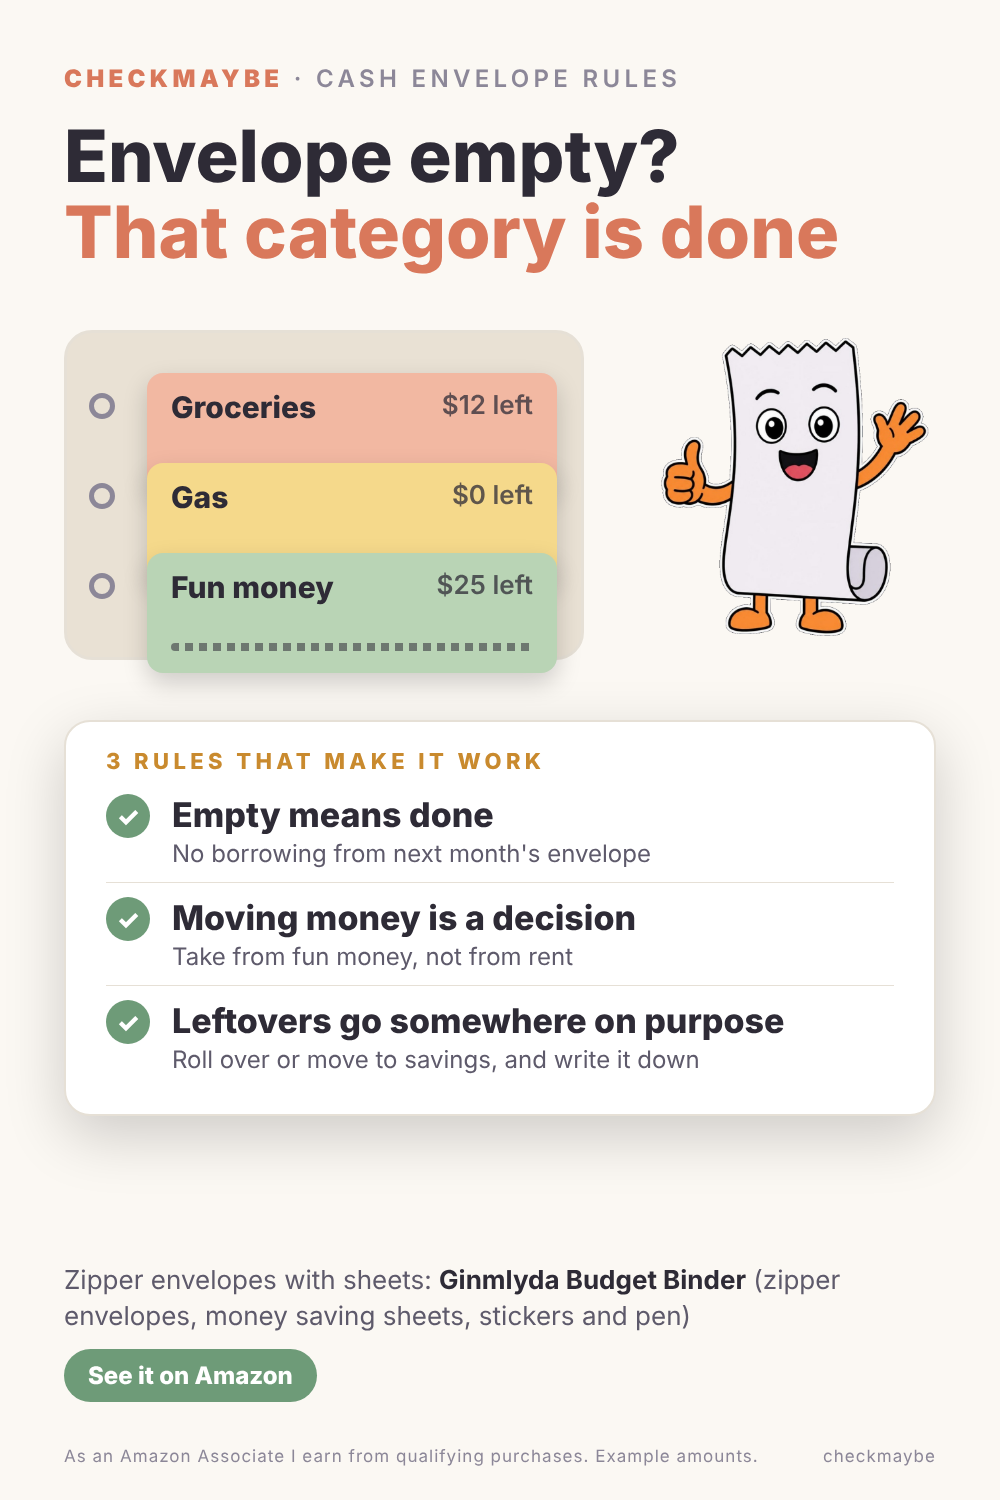
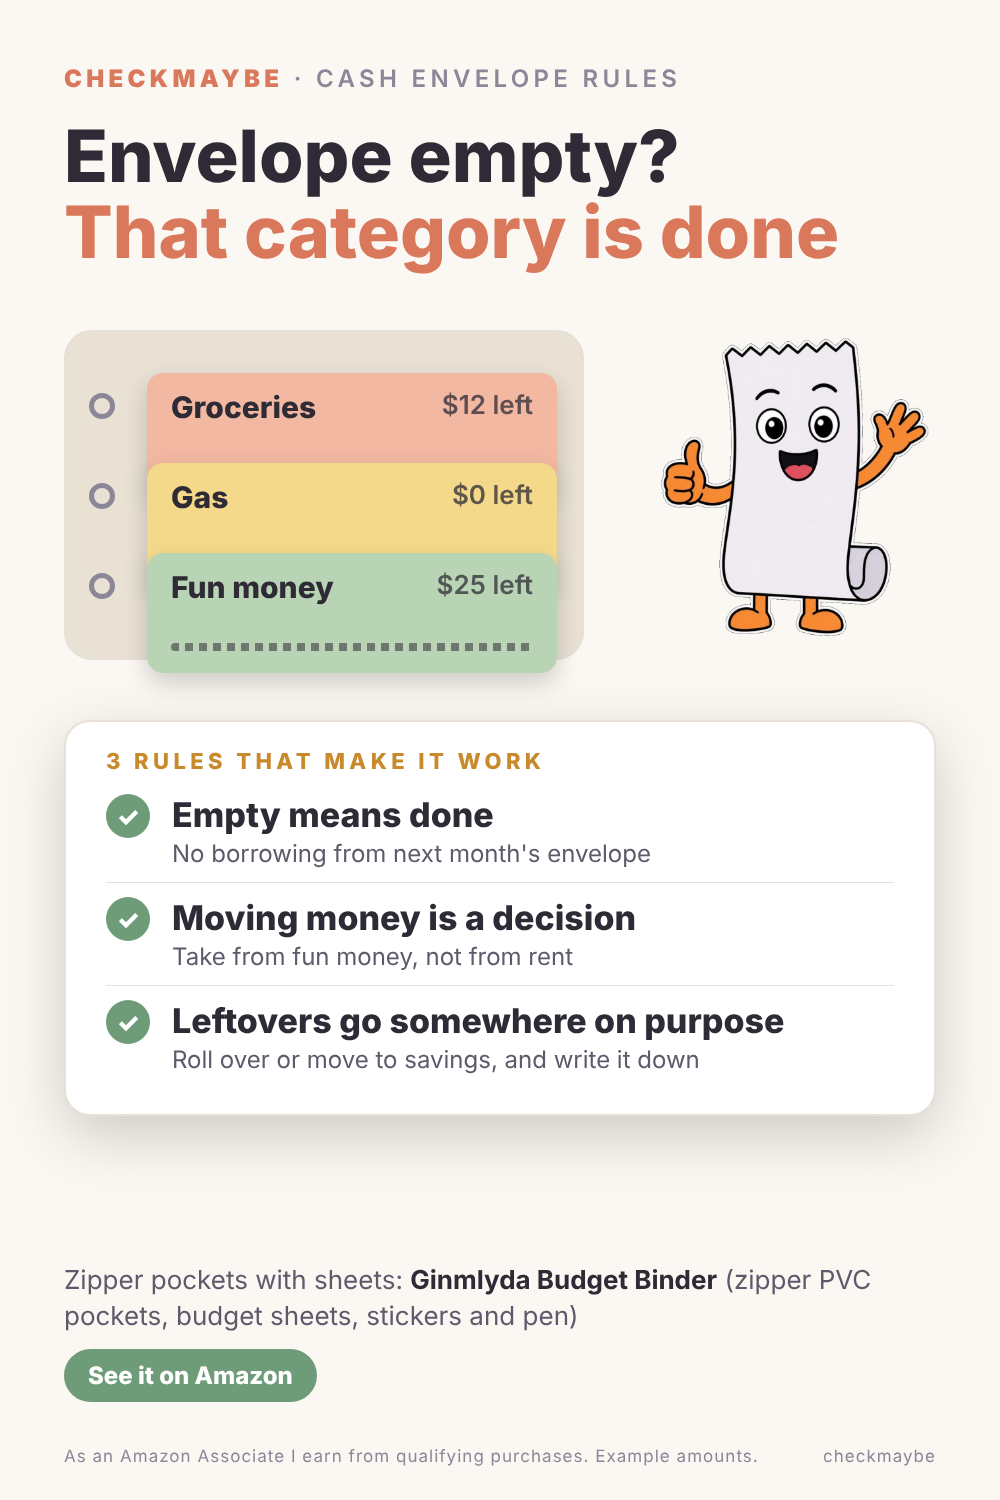
Amazon pin az5: Ginmlyda link; product line matches the live title
Claude-Session: https://claude.ai/code/session_012dBA7SqmaqwCRXrXc8dwP2

Changed region(s): [[0.062, 0.828, 0.868, 0.8893]]

diff --git a/content/pinterest/2026-11/build_pins_v15_amazon.py b/content/pinterest/2026-11/build_pins_v15_amazon.py
@@ -80,7 +80,7 @@ PINS = [
          rows=[("Empty means done", "No borrowing from next month's envelope"),
                ("Moving money is a decision", "Take from fun money, not from rent"),
                ("Leftovers go somewhere on purpose", "Roll over or move to savings, and write it down")],
-         pick='Zipper envelopes with sheets: <b>Ginmlyda Budget Binder</b> (zipper envelopes, money saving sheets, stickers and pen)'),
+         pick='Zipper pockets with sheets: <b>Ginmlyda Budget Binder</b> (zipper PVC pockets, budget sheets, stickers and pen)'),
     # Savings challenge books (100 envelopes). Sums: 1..100 = 5,050; 1..50 = 1,275. Jan 1 + 99 days = Apr 10, 2027.
     dict(id="az6", slug="savings-challenge", themes=["light"], art=f"{A2}/unroll.jpg", kicker="100 envelope challenge",
          h1="100 envelopes,<br><em>$5,050 saved</em>",

diff --git a/content/pinterest/2026-11/pins-v15-amazon.md b/content/pinterest/2026-11/pins-v15-amazon.md
@@ -11,7 +11,7 @@ Posting (J 2026-11-20): 2 to 3 pins a day to build volume. Mix product types eac
 | az2 | Start with 3 envelopes | NICOOTH Budget Binder A6 with zipper cash envelopes (J checked 2026-11-20: 4.6 stars, 9,201 ratings, Amazon's Choice, 200+ bought past month, $7.98, ships from Amazon) | `https://link.amazon/B04isozsT` |
 | az3 | Card bill higher than expected? | Antner https://www.amazon.com/dp/B08LSKL338 (J's pick, 2026-11-20) | `https://www.amazon.com/dp/B08LSKL338?th=1&linkCode=ll2&tag=checkmaybe-20&linkId=61de726983dc13a6ada8f241097170b2` |
 | az4 | Payday routine, 4 steps | Nefeeko Budget Binder with calculator (J's pick 2026-11-20: 4.6 stars, 3,219 ratings, Amazon's Choice, 100+ bought past month, $13.59 Prime) | `https://link.amazon/B028pfZbg` |
-| az5 | Envelope empty, category done | Ginmlyda https://www.amazon.com/dp/B09D9KLNGL | `<amzn.to>` |
+| az5 | Envelope empty, category done | Ginmlyda Cash Envelopes Budget Binder with zipper PVC pockets, budget sheets, stickers and pen (J checked 2026-11-20: 4.5 stars, 1,047 ratings, Overall Pick, $8.49 Prime, ships from Amazon) | `https://link.amazon/B04y3ebeZ` |
 | az6 | 100 envelopes = $5,050 | APMFHO 100 Days Money Saving Challenge (J's pick 2026-11-20: 4.5 stars, 912 ratings, Amazon's Choice, 500+ bought past month, $7.99) | `https://link.amazon/B03V55wCK` |
 | az7 | Do 50 envelopes ($1,275) | RONMONG 100 Envelopes Challenge Binder with cash envelopes, tracker and budget sheets (J checked 2026-11-20: 4.7 stars, 907 ratings, Amazon's Choice, $7.99 Prime) | `https://link.amazon/B00pAkp7u` |
 | az8 | One envelope a day, 100 days | APMFHO (same as az6; GINTBN dropped 2026-11-20: 4.2 stars, 132 ratings, no Prime, ships Dec 7) | same as az6 |
@@ -62,7 +62,7 @@ Disclosure line (end of every description): `As an Amazon Associate I earn from 
 
 ### az5
 - **Title:** Cash Envelope Rules: When It's Empty, That Category Is Done
-- **Description:** Three rules that make cash envelopes work: an empty envelope means that category is done for the month, moving money between envelopes is a decision you make on purpose, and leftovers roll over or go to savings, written down. Binder in the example: Ginmlyda Budget Binder with zipper envelopes, money saving sheets, stickers and pen. Example amounts. As an Amazon Associate I earn from qualifying purchases. #cashenvelopes #cashstuffing #budgetingtips
+- **Description:** Three rules that make cash envelopes work: an empty envelope means that category is done for the month, moving money between envelopes is a decision you make on purpose, and leftovers roll over or go to savings, written down. Binder in the example: Ginmlyda Budget Binder with zipper PVC pockets, budget sheets, stickers and pen. Example amounts. As an Amazon Associate I earn from qualifying purchases. #cashenvelopes #cashstuffing #budgetingtips
 - **Alt text:** Envelopes showing groceries $12 left, gas $0 left and fun money $25 left, with three cash envelope rules.
 
 ### az6
